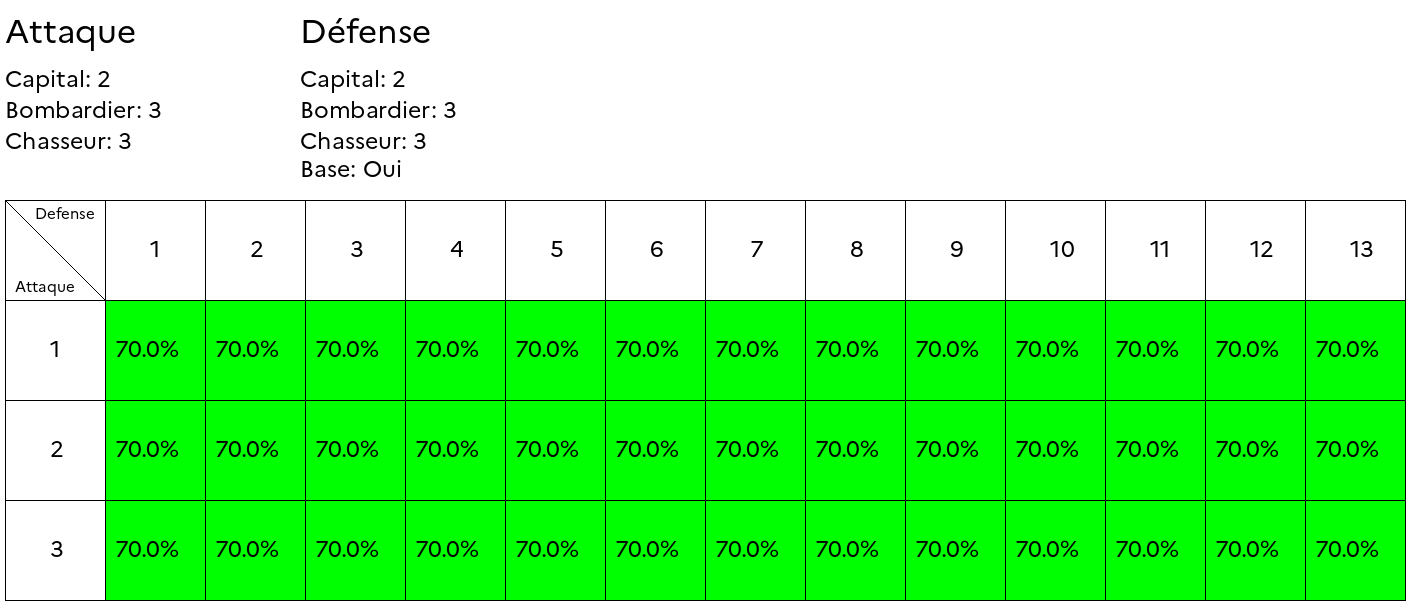
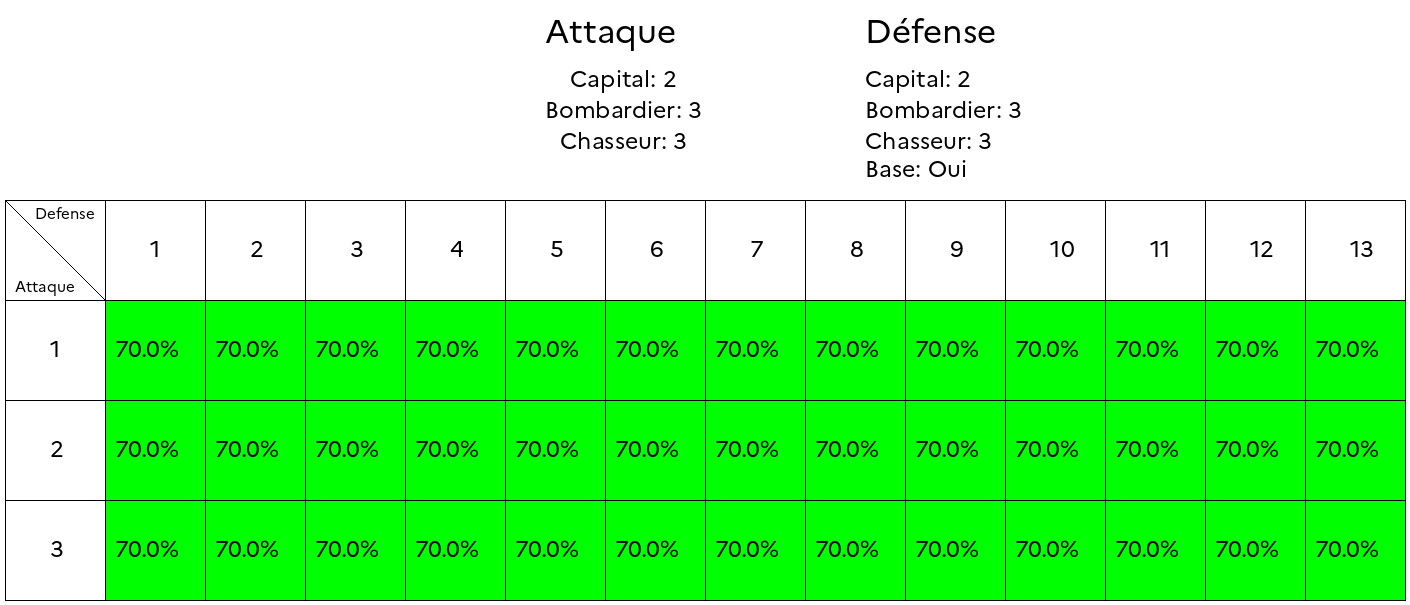
align text

diff --git a/pilo/pilo.py b/pilo/pilo.py
@@ -20,20 +20,20 @@ class ImageDrawingService:
             - finalname : How the image should be named. Note : the extension will be .png.
             WARNING : Will overide an image if it already exists under the same name.
         """
-        im = Image.new("RGB", (max(500, 110+ 100*len(tab.liste_proba[0])), max(500, 310 + 100*len(tab.liste_proba))), "white")
+        im = Image.new("RGB", (max(500, 110+ 100*len(tab.liste_proba[0])), max(500, 305 + 100*len(tab.liste_proba))), "white")
         self.draw = ImageDraw.Draw(im)
+            
 
+        self.draw.multiline_text((im.width / 2 - 160, 5), "Attaque", font=bigBigGeneralFont, fill=(0, 0, 0))
+        self.draw.multiline_text((im.width / 2 - 160, 60), f"Capital: {tab.config.vaisseaux_att[0]}\nBombardier: {tab.config.vaisseaux_att[1]}\nChasseur: {tab.config.vaisseaux_att[2]}", font=bigGeneralFont, fill=(0, 0, 0), align = "center")
 
-        self.draw.multiline_text((5, 5), "Attaque", font=bigBigGeneralFont, fill=(0, 0, 0))
-        self.draw.multiline_text((5, 60), f"Capital: {tab.config.vaisseaux_att[0]}\nBombardier: {tab.config.vaisseaux_att[1]}\nChasseur: {tab.config.vaisseaux_att[2]}", font=bigGeneralFont, fill=(0, 0, 0))
-
-        self.draw.multiline_text((300, 5), "Défense", font=bigBigGeneralFont, fill=(0, 0, 0))
-        self.draw.multiline_text((300,60), f"Capital: {tab.config.vaisseaux_def[0]}\nBombardier: {tab.config.vaisseaux_def[1]}\nChasseur: {tab.config.vaisseaux_def[1]}", font=bigGeneralFont, fill=(0, 0, 0))
+        self.draw.multiline_text((im.width / 2 + 160, 5), "Défense", font=bigBigGeneralFont, fill=(0, 0, 0))
+        self.draw.multiline_text((im.width / 2 + 160,60), f"Capital: {tab.config.vaisseaux_def[0]}\nBombardier: {tab.config.vaisseaux_def[1]}\nChasseur: {tab.config.vaisseaux_def[1]}", font=bigGeneralFont, fill=(0, 0, 0), align = "center")
 
         if tab.config.base:
-            self.draw.multiline_text((300, 150), "Base: Oui", font=bigGeneralFont, fill=(0, 0, 0))
+            self.draw.multiline_text((im.width / 2 + 160, 150), "Base: Oui", font=bigGeneralFont, fill=(0, 0, 0))
         else:
-            self.draw.multiline_text((300, 150), "Base: Non", font=bigGeneralFont, fill=(0, 0, 0))
+            self.draw.multiline_text((im.width / 2 + 160, 150), "Base: Non", font=bigGeneralFont, fill=(0, 0, 0))
         self.drawTable(5,200,tab.liste_proba)
 
         im.save(f"{finaldir}/{finalname}.png", "PNG")
